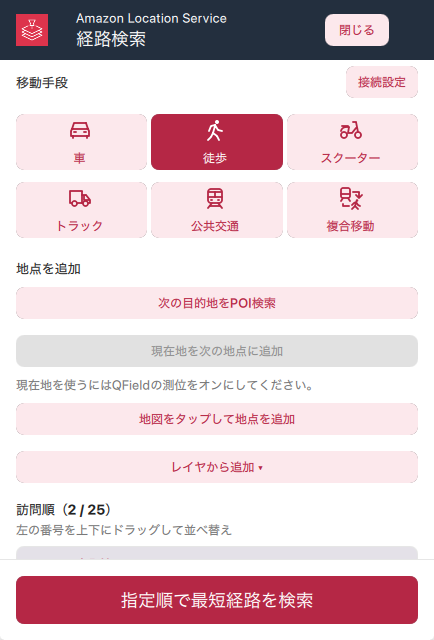
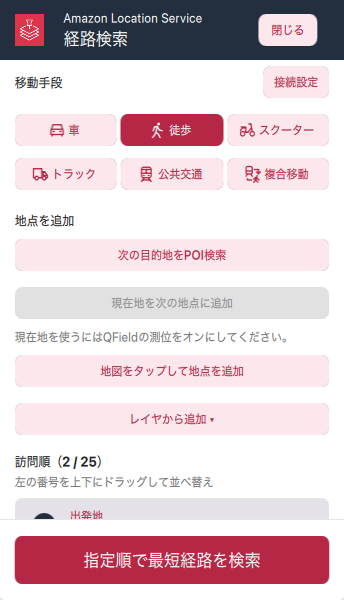
Compact the travel mode selector for phone screens

diff --git a/main.qml b/main.qml
@@ -578,6 +578,8 @@ Item {
                         LocationButton { text: "接続設定"; enabled: !plugin.pending; onClicked: settingsPopup.open() }
                     }
                     GridLayout {
+                        id: travelModeGrid
+                        readonly property int iconSize: 18
                         Layout.fillWidth: true
                         columns: width < 280 ? 2 : 3
                         columnSpacing: 4
@@ -590,11 +592,16 @@ Item {
                                 Layout.fillWidth: true
                                 Layout.preferredWidth: 1
                                 Layout.minimumHeight: plugin.touchHeight
+                                Layout.preferredHeight: Math.max(plugin.touchHeight, implicitContentHeight + verticalPadding * 2)
                                 horizontalPadding: 4
+                                verticalPadding: 2
+                                spacing: 4
                                 text: modelData.label
                                 icon.source: Qt.resolvedUrl("icons/" + modelData.id + ".svg")
+                                icon.width: travelModeGrid.iconSize
+                                icon.height: travelModeGrid.iconSize
                                 icon.color: Material.foreground
-                                display: AbstractButton.TextUnderIcon
+                                display: AbstractButton.TextBesideIcon
                                 checkable: true
                                 autoExclusive: true
                                 checked: plugin.travelMode.id === modelData.id
